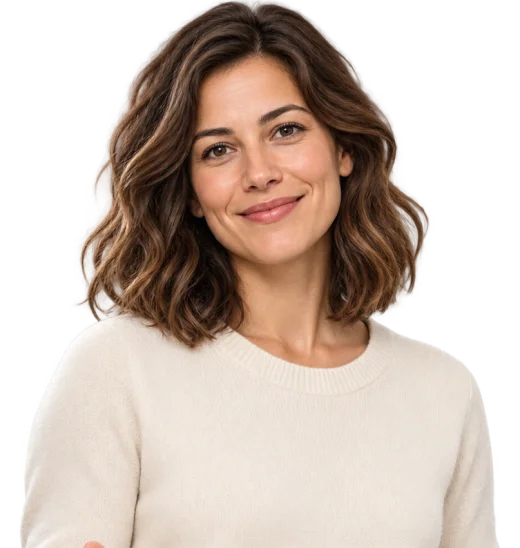
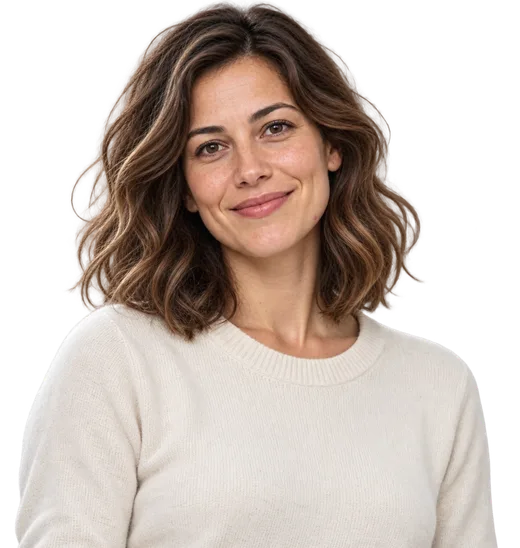
Startseite „Anleihen? Fang hier an.“: neues Porträtfoto vor dem grünen Kreis (Nutzerwunsch)

diff --git a/index.html b/index.html
@@ -1133,7 +1133,7 @@
       </section>
 
       <section id="bnd-einstieg" aria-labelledby="h-einstieg">   <!-- Anfänger-Einstieg 02.10.2026 (Entwurf des Nutzers, Variante 01 „Persönliche Einladung“): der ganze Block führt zu den Grundlagen -->
-        <span class="be-bild" aria-hidden="true"><img src="einstieg-portraet.webp" width="520" height="548" alt="" decoding="async"></span>
+        <span class="be-bild" aria-hidden="true"><img src="einstieg-portraet.webp?v=2" width="520" height="548" alt="" decoding="async"></span>
         <div class="be-karte"><h2 id="h-einstieg">Anleihen? <em>Fang hier an.</em></h2><p>Das Wichtigste in etwa 5&nbsp;Minuten.</p></div>
         <a class="be-knopf" href="grundlagen.html">Einfach erklärt<svg viewBox="0 0 24 24" fill="none" stroke="currentColor" stroke-width="2.2" stroke-linecap="round" stroke-linejoin="round" aria-hidden="true" focusable="false"><path d="M4 12h16M14 6l6 6-6 6"/></svg></a>
       </section>
